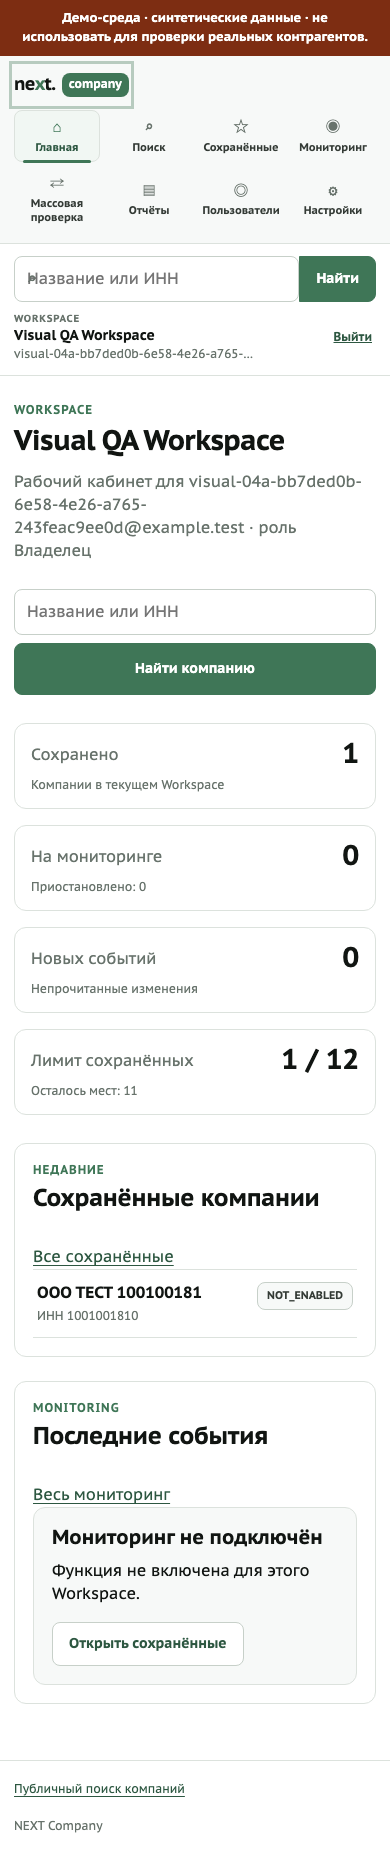
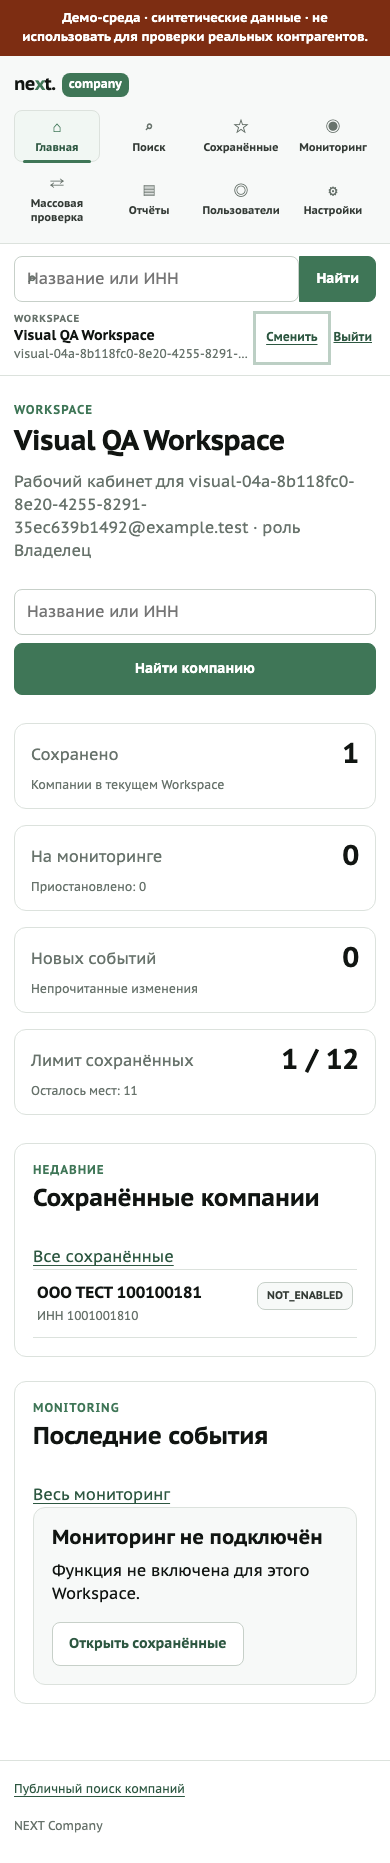
fix: restore mobile workspace switch

diff --git a/workspace_app/templates/base.html b/workspace_app/templates/base.html
@@ -63,7 +63,10 @@
         <small>{{ principal.email }}{% if role %} · {{ role.name }}{% endif %}</small>
       </div>
       <div class="topbar-actions">
-        <a class="workspace-switch" href="/workspace/select">Сменить Workspace</a>
+        <a class="workspace-switch" href="/workspace/select" aria-label="Сменить Workspace">
+          <span class="workspace-switch-label workspace-switch-label--full" aria-hidden="true">Сменить Workspace</span>
+          <span class="workspace-switch-label workspace-switch-label--compact" aria-hidden="true">Сменить</span>
+        </a>
         <form action="/logout" method="post">
           <input type="hidden" name="csrf" value="{{ csrf }}">
           <button type="submit" class="link-button">Выйти</button>

diff --git a/workspace_app/static/workspace.css b/workspace_app/static/workspace.css
@@ -376,6 +376,10 @@ code {
   white-space: nowrap;
 }
 
+.workspace-switch-label--compact {
+  display: none;
+}
+
 .guest-brand {
   justify-self: start;
 }
@@ -1717,10 +1721,15 @@ summary:focus-visible {
     grid-column: 2;
     grid-row: 2;
     justify-content: flex-end;
+    gap: 4px;
   }
 
-  .workspace-switch {
+  .workspace-switch-label--full {
     display: none;
+  }
+
+  .workspace-switch-label--compact {
+    display: inline;
   }
 
   .sidebar {

diff --git a/tests/test_workspace_visual_polish_playwright.py b/tests/test_workspace_visual_polish_playwright.py
@@ -61,6 +61,22 @@ def _assert_keyboard_focus(page: Page) -> None:
     assert outline["width"] != "0px"
 
 
+def _assert_visible_focus(page: Page, selector: str) -> None:
+    control = page.locator(selector)
+    control.focus()
+    expect(control).to_be_focused()
+    outline = control.evaluate(
+        """
+        element => {
+          const style = getComputedStyle(element);
+          return {style: style.outlineStyle, width: style.outlineWidth};
+        }
+        """
+    )
+    assert outline["style"] != "none"
+    assert outline["width"] != "0px"
+
+
 def test_workspace_visual_shell_dashboard_company_settings_and_screenshots(monkeypatch):
     email = f"visual-04a-{uuid4()}@example.test"
     base_item = projection(sequence=100_100_181)
@@ -154,6 +170,13 @@ def test_workspace_visual_shell_dashboard_company_settings_and_screenshots(monke
             assert page.locator(".sidebar").evaluate(
                 "element => Math.round(element.getBoundingClientRect().width)"
             ) == 224
+            desktop_workspace_switch = page.get_by_role(
+                "link", name="Сменить Workspace", exact=True
+            )
+            expect(desktop_workspace_switch).to_be_visible()
+            expect(desktop_workspace_switch).to_have_attribute(
+                "href", "/workspace/select"
+            )
             assert _heading_size(page) <= 38
             assert _has_no_page_overflow(page)
             _assert_keyboard_focus(page)
@@ -166,6 +189,20 @@ def test_workspace_visual_shell_dashboard_company_settings_and_screenshots(monke
                 "element => getComputedStyle(element).position"
             ) == "relative"
             expect(page.locator(".topbar-search input")).to_be_visible()
+            mobile_workspace_switch = page.get_by_role(
+                "link", name="Сменить Workspace", exact=True
+            )
+            expect(mobile_workspace_switch).to_be_visible()
+            expect(mobile_workspace_switch).to_have_attribute(
+                "href", "/workspace/select"
+            )
+            assert mobile_workspace_switch.evaluate(
+                "element => element.tabIndex >= 0"
+            )
+            switch_box = mobile_workspace_switch.bounding_box()
+            assert switch_box is not None
+            assert switch_box["height"] >= 44 or switch_box["width"] >= 44
+            _assert_visible_focus(page, ".workspace-switch")
             assert _heading_size(page) <= 28
             assert _has_no_page_overflow(page)
             touch_heights = page.locator(
